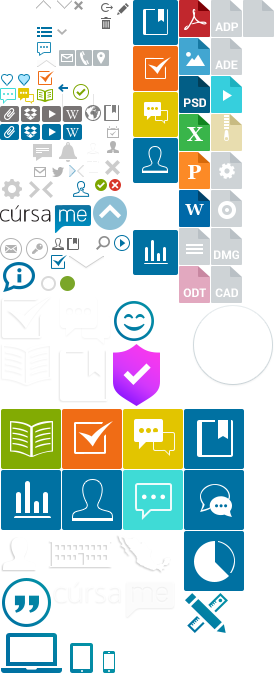
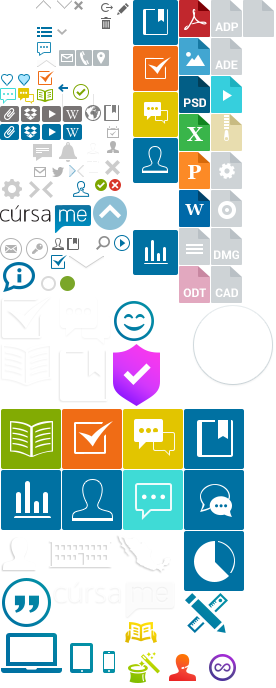
cambios para el website en features

Changed region(s): [[0.4348, 0.8852, 0.5797, 1.0], [0.7536, 0.9462, 0.8696, 1.0], [0.6087, 0.9462, 0.7246, 1.0]]

diff --git a/app/assets/stylesheets/website/_skin.scss b/app/assets/stylesheets/website/_skin.scss
@@ -89,6 +89,10 @@
   &.social-impact {
     background-image: url('/images/website/social-intro.jpg');
   }
+
+  &.our-methods {
+    background-image: url('/images/website/our-methods-title.jpg');
+  }
 }
 
 .white-shadowed {
@@ -282,6 +286,8 @@
   ul li {
     text-align: center;
     cursor: pointer;
+    @include opacity(.5);
+    @include transition(all .2s ease-in-out);
 
     .tip {
       background: url('pack.png') -69px -256px no-repeat;
@@ -292,6 +298,14 @@
       font-size: 11px;
       font-weight: 500;
       color: #666;
+    }
+
+    &:hover {
+      @include opacity(1);
+    }
+
+    &.active {
+      @include opacity(1);
     }
   }
 }
@@ -317,6 +331,27 @@
 
   .feature-content-image {
     text-align: center;
+  }
+}
+
+.our-methods {
+  box-shadow: inset 0 1px 1px rgba(0,0,0,.1);
+
+  .section-title {
+    h2, p {
+      color: #333;
+      text-shadow: none;
+    }
+  }
+
+  .methods-item {
+    h3 {
+      color: #0071a2;
+    }
+
+    p {
+      @include text-size-regular;
+    }
   }
 }
 

diff --git a/app/assets/stylesheets/global/_icons.scss b/app/assets/stylesheets/global/_icons.scss
@@ -97,6 +97,10 @@
 .i-functions { width: 43px; height: 40px; background-position: -185px -593px; } 
 .i-multi-platform { width: 114px; height: 40px; background-position: -1px -633px; }
 .i-info-b { width: 32px; height: 30px; background-position: -3px -262px; }
+.i-m-training { width: 32px; height: 32px; background-position: -125px -615px; vertical-align: -7px; }
+.i-m-implement { width: 32px; height: 32px; background-position: -128px -651px; vertical-align: -7px; }
+.i-m-support { width: 32px; height: 32px; background-position: -167px -651px; vertical-align: -7px; }
+.i-m-endless { width: 32px; height: 32px; background-position: -207px -651px; vertical-align: -7px; }
 
 /* File Types Icons */
 .i-file-type-dimension { width: 31px; height: 37px; }

diff --git a/app/assets/stylesheets/website/_skeleton.scss b/app/assets/stylesheets/website/_skeleton.scss
@@ -361,7 +361,6 @@
 }
 
 .features-content {
-  margin-bottom: -23px;
   padding: 80px 0 150px 0;
 
   .feature {
@@ -389,6 +388,21 @@
 
   .feature-content-image img {
     max-width: 100%;
+  }
+}
+
+.our-methods {
+
+  .methods-item .col {
+    margin-top: 75px;
+    
+    .col-inner {
+      padding: 0 15px;
+    }
+  }
+
+  h3 {
+    margin-bottom: 15px;
   }
 }
 
